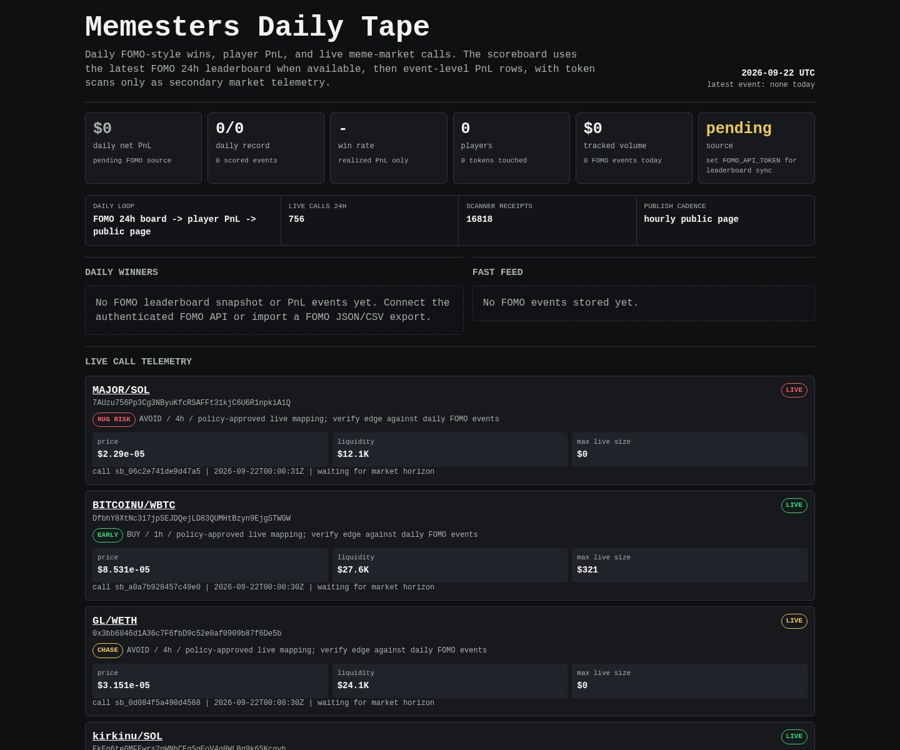
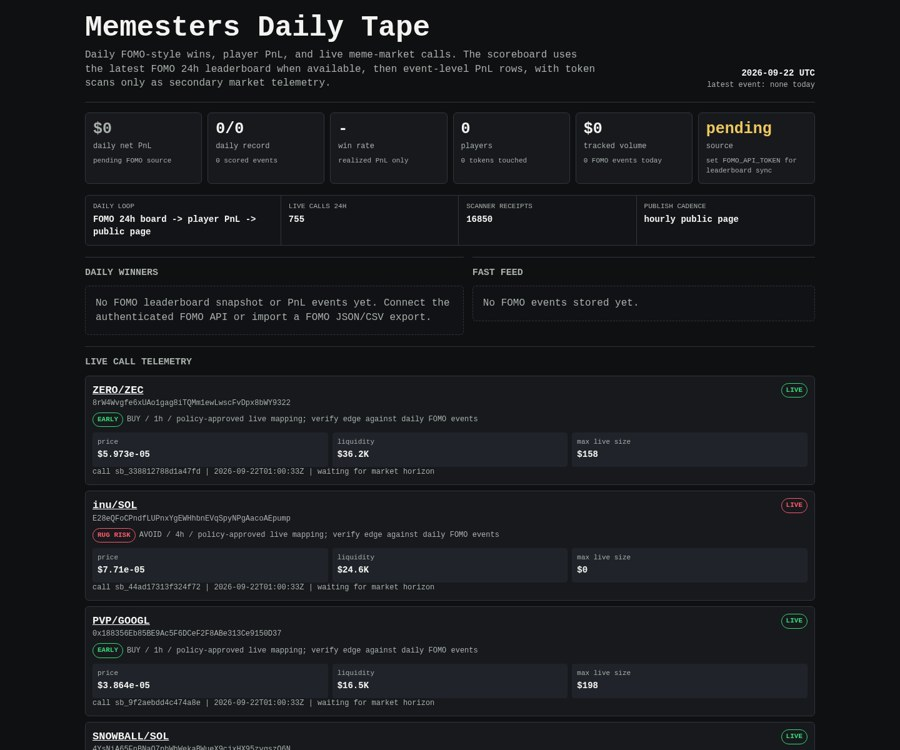
Update Memesters scoreboard

diff --git a/memesters/index.html b/memesters/index.html
@@ -149,8 +149,8 @@
 
     <div class="rail" aria-label="live operating loop">
       <div><span>daily loop</span><b>FOMO 24h board -> player PnL -> public page</b></div>
-      <div><span>live calls 24h</span><b>756</b></div>
-      <div><span>scanner receipts</span><b>16818</b></div>
+      <div><span>live calls 24h</span><b>755</b></div>
+      <div><span>scanner receipts</span><b>16850</b></div>
       <div><span>publish cadence</span><b>hourly public page</b></div>
     </div>
 
@@ -171,8 +171,29 @@
     <article class="receipt">
       <div class="receipt-head">
         <div>
-          <div class="pair"><a href="https://dexscreener.com/solana/f3rkwvg6z48r1ipev7usegv8fopyryuevs7vgghbj8wd">MAJOR/SOL</a></div>
-          <div class="addr">7AUzu756Pp3Cg3NByuKfcRSAFFt31kjC6U6R1npkiA1Q</div>
+          <div class="pair"><a href="https://dexscreener.com/solana/5uozo8lvjrvzu2jsu9kugmqyernyjc59syspqsujcxun">ZERO/ZEC</a></div>
+          <div class="addr">8rW4Wvgfe6xUAo1gag8iTQMm1ewLwscFvDpx8bWY9322</div>
+          <div class="addr policy-line">
+            <span class="badge early">EARLY</span>
+            <span>BUY / 1h / policy-approved live mapping; verify edge against daily FOMO events</span>
+          </div>
+        </div>
+        <span class="badge early">LIVE</span>
+      </div>
+      <div class="receipt-grid">
+        <div class="kv"><span>price</span><b>$5.973e-05</b></div>
+        <div class="kv"><span>liquidity</span><b>$36.2K</b></div>
+        <div class="kv"><span>max live size</span><b>$158</b></div>
+      </div>
+      <div class="outcomes">call sb_338812788d1a47fd | 2026-09-22T01:00:33Z | waiting for market horizon</div>
+    </article>
+    
+
+    <article class="receipt">
+      <div class="receipt-head">
+        <div>
+          <div class="pair"><a href="https://dexscreener.com/solana/fvc7eaasg9a5byz2y3nuemmjvfq2brwxopjjoca1g593">inu/SOL</a></div>
+          <div class="addr">E28eQFoCPndfLUPnxYgEWHhbnEVqSpyNPgAacoAEpump</div>
           <div class="addr policy-line">
             <span class="badge rug-risk">RUG RISK</span>
             <span>AVOID / 4h / policy-approved live mapping; verify edge against daily FOMO events</span>
@@ -181,19 +202,19 @@
         <span class="badge rug-risk">LIVE</span>
       </div>
       <div class="receipt-grid">
-        <div class="kv"><span>price</span><b>$2.29e-05</b></div>
-        <div class="kv"><span>liquidity</span><b>$12.1K</b></div>
+        <div class="kv"><span>price</span><b>$7.71e-05</b></div>
+        <div class="kv"><span>liquidity</span><b>$24.6K</b></div>
         <div class="kv"><span>max live size</span><b>$0</b></div>
       </div>
-      <div class="outcomes">call sb_06c2e741de9d47a5 | 2026-09-22T00:00:31Z | waiting for market horizon</div>
+      <div class="outcomes">call sb_44ad17313f324f72 | 2026-09-22T01:00:33Z | waiting for market horizon</div>
     </article>
     
 
     <article class="receipt">
       <div class="receipt-head">
         <div>
-          <div class="pair"><a href="https://dexscreener.com/solana/5dzxjzmtsrvmpzbebjyer2qjth2ttrcit7o55m5uuzci">BITCOINU/WBTC</a></div>
-          <div class="addr">DfbhY8XtNc317jpSEJDQejLD83QUMHtBzyn9EjgSTWGW</div>
+          <div class="pair"><a href="https://dexscreener.com/robinhood/0x244cea49b53e832db5d82272e75a30b3c515039f51cb97f759b240d9cae3d772">PVP/GOOGL</a></div>
+          <div class="addr">0x188356Eb85BE9Ac5F6DCeF2F8ABe313Ce9150D37</div>
           <div class="addr policy-line">
             <span class="badge early">EARLY</span>
             <span>BUY / 1h / policy-approved live mapping; verify edge against daily FOMO events</span>
@@ -202,19 +223,124 @@
         <span class="badge early">LIVE</span>
       </div>
       <div class="receipt-grid">
-        <div class="kv"><span>price</span><b>$8.531e-05</b></div>
-        <div class="kv"><span>liquidity</span><b>$27.6K</b></div>
-        <div class="kv"><span>max live size</span><b>$321</b></div>
+        <div class="kv"><span>price</span><b>$3.864e-05</b></div>
+        <div class="kv"><span>liquidity</span><b>$16.5K</b></div>
+        <div class="kv"><span>max live size</span><b>$198</b></div>
       </div>
-      <div class="outcomes">call sb_a0a7b928457c49e0 | 2026-09-22T00:00:30Z | waiting for market horizon</div>
+      <div class="outcomes">call sb_9f2aebdd4c474a8e | 2026-09-22T01:00:33Z | waiting for market horizon</div>
     </article>
     
 
     <article class="receipt">
       <div class="receipt-head">
         <div>
-          <div class="pair"><a href="https://dexscreener.com/robinhood/0x90f0f0b5444a96a7a49cf087ed9a09e08519d23d657af26a7787c8a744e5b3cb">GL/WETH</a></div>
-          <div class="addr">0x3bb6046d1A36c7F6fbD9c52e0af0909b87f6De5b</div>
+          <div class="pair"><a href="https://dexscreener.com/solana/5veqjswnfjvcg1hvlkzkthwmoptej1ydbpjzternperj">SNOWBALL/SOL</a></div>
+          <div class="addr">4YsNiA65FnBNaQ7pbWhWekaBWueX9cjxHX95zygszQ6N</div>
+          <div class="addr policy-line">
+            <span class="badge early">EARLY</span>
+            <span>BUY / 1h / policy-approved live mapping; verify edge against daily FOMO events</span>
+          </div>
+        </div>
+        <span class="badge early">LIVE</span>
+      </div>
+      <div class="receipt-grid">
+        <div class="kv"><span>price</span><b>$5.876e-05</b></div>
+        <div class="kv"><span>liquidity</span><b>$22.6K</b></div>
+        <div class="kv"><span>max live size</span><b>$160</b></div>
+      </div>
+      <div class="outcomes">call sb_54f8637e270a44bd | 2026-09-22T01:00:32Z | waiting for market horizon</div>
+    </article>
+    
+
+    <article class="receipt">
+      <div class="receipt-head">
+        <div>
+          <div class="pair"><a href="https://dexscreener.com/solana/ehtaaw2yccpm189xgqztgtu8d8l49ye3yxks6nqfml93">Bully/SOL</a></div>
+          <div class="addr">A6tt6RZHUgk2CVwwFn5rwmvrrdf5Mafqb54tD532X2Vf</div>
+          <div class="addr policy-line">
+            <span class="badge rug-risk">RUG RISK</span>
+            <span>AVOID / 4h / policy-approved live mapping; verify edge against daily FOMO events</span>
+          </div>
+        </div>
+        <span class="badge rug-risk">LIVE</span>
+      </div>
+      <div class="receipt-grid">
+        <div class="kv"><span>price</span><b>$1.418e-05</b></div>
+        <div class="kv"><span>liquidity</span><b>$8.8K</b></div>
+        <div class="kv"><span>max live size</span><b>$0</b></div>
+      </div>
+      <div class="outcomes">call sb_4cd9746e7e9148b6 | 2026-09-22T01:00:32Z | waiting for market horizon</div>
+    </article>
+    
+
+    <article class="receipt">
+      <div class="receipt-head">
+        <div>
+          <div class="pair"><a href="https://dexscreener.com/solana/5ina9bocjvpxxlzhfetdabdp6kjw4lx3pfampazdzlwq">PROXY/SOL</a></div>
+          <div class="addr">HhrSaoqysQBo8AdhxuA2hG8AWJb5hZieCi4AHgo1pump</div>
+          <div class="addr policy-line">
+            <span class="badge early">EARLY</span>
+            <span>BUY / 1h / policy-approved live mapping; verify edge against daily FOMO events</span>
+          </div>
+        </div>
+        <span class="badge early">LIVE</span>
+      </div>
+      <div class="receipt-grid">
+        <div class="kv"><span>price</span><b>$6.089e-05</b></div>
+        <div class="kv"><span>liquidity</span><b>$20.5K</b></div>
+        <div class="kv"><span>max live size</span><b>$25</b></div>
+      </div>
+      <div class="outcomes">call sb_3df1a416b3ac4498 | 2026-09-22T01:00:32Z | waiting for market horizon</div>
+    </article>
+    
+
+    <article class="receipt">
+      <div class="receipt-head">
+        <div>
+          <div class="pair"><a href="https://dexscreener.com/solana/dy21gkppugdjnr5bxrj7qskr7h1csa2f8nb4bqnnwu39">◎/xSOL</a></div>
+          <div class="addr">8KUkZrqJLsyqrPaiA72QTFe6diZPd4R4eCgP6WLaCYs4</div>
+          <div class="addr policy-line">
+            <span class="badge rug-risk">RUG RISK</span>
+            <span>AVOID / 4h / policy-approved live mapping; verify edge against daily FOMO events</span>
+          </div>
+        </div>
+        <span class="badge rug-risk">LIVE</span>
+      </div>
+      <div class="receipt-grid">
+        <div class="kv"><span>price</span><b>$1.74e-05</b></div>
+        <div class="kv"><span>liquidity</span><b>$12.5K</b></div>
+        <div class="kv"><span>max live size</span><b>$0</b></div>
+      </div>
+      <div class="outcomes">call sb_645f5a084d584526 | 2026-09-22T01:00:32Z | waiting for market horizon</div>
+    </article>
+    
+
+    <article class="receipt">
+      <div class="receipt-head">
+        <div>
+          <div class="pair"><a href="https://dexscreener.com/solana/gdhbatsqmm5ua9zx3fakz3chvtvwmedisxrwacuv46qv">OWED/SOL</a></div>
+          <div class="addr">DgACXKn6kSopTrFAyAwvGaeTKicrqWzLvXRYuvKGpump</div>
+          <div class="addr policy-line">
+            <span class="badge early">EARLY</span>
+            <span>BUY / 1h / policy-approved live mapping; verify edge against daily FOMO events</span>
+          </div>
+        </div>
+        <span class="badge early">LIVE</span>
+      </div>
+      <div class="receipt-grid">
+        <div class="kv"><span>price</span><b>$7.923e-05</b></div>
+        <div class="kv"><span>liquidity</span><b>$23.9K</b></div>
+        <div class="kv"><span>max live size</span><b>$286</b></div>
+      </div>
+      <div class="outcomes">call sb_7b959c19115a4496 | 2026-09-22T01:00:32Z | waiting for market horizon</div>
+    </article>
+    
+
+    <article class="receipt">
+      <div class="receipt-head">
+        <div>
+          <div class="pair"><a href="https://dexscreener.com/hyperevm/0xfd8ccdeec2d8dbc003d1c7a213d826bd1386f4d5">PUMPY/UPUMP</a></div>
+          <div class="addr">0xCC661E90E93A81ccfbdac6B8832D191c42345819</div>
           <div class="addr policy-line">
             <span class="badge chase">CHASE</span>
             <span>AVOID / 4h / policy-approved live mapping; verify edge against daily FOMO events</span>
@@ -223,61 +349,19 @@
         <span class="badge chase">LIVE</span>
       </div>
       <div class="receipt-grid">
-        <div class="kv"><span>price</span><b>$3.151e-05</b></div>
-        <div class="kv"><span>liquidity</span><b>$24.1K</b></div>
+        <div class="kv"><span>price</span><b>$1.252e-05</b></div>
+        <div class="kv"><span>liquidity</span><b>$10.9K</b></div>
         <div class="kv"><span>max live size</span><b>$0</b></div>
       </div>
-      <div class="outcomes">call sb_0d084f5a490d4568 | 2026-09-22T00:00:30Z | waiting for market horizon</div>
+      <div class="outcomes">call sb_7cb36fbd1fa14f28 | 2026-09-22T00:45:29Z | waiting for market horizon</div>
     </article>
     
 
     <article class="receipt">
       <div class="receipt-head">
         <div>
-          <div class="pair"><a href="https://dexscreener.com/solana/7r69uthqa8nzdizmhcksbfm6d9hlgmadlhmkk8zwqx5a">kirkinu/SOL</a></div>
-          <div class="addr">EkEq6teGMFEwrs2pWNbCEgSqEoV4q8WLBg9k6SKcgvh</div>
-          <div class="addr policy-line">
-            <span class="badge early">EARLY</span>
-            <span>BUY / 1h / policy-approved live mapping; verify edge against daily FOMO events</span>
-          </div>
-        </div>
-        <span class="badge early">LIVE</span>
-      </div>
-      <div class="receipt-grid">
-        <div class="kv"><span>price</span><b>$6.316e-05</b></div>
-        <div class="kv"><span>liquidity</span><b>$21.7K</b></div>
-        <div class="kv"><span>max live size</span><b>$260</b></div>
-      </div>
-      <div class="outcomes">call sb_29a42434f1d44bca | 2026-09-22T00:00:30Z | waiting for market horizon</div>
-    </article>
-    
-
-    <article class="receipt">
-      <div class="receipt-head">
-        <div>
-          <div class="pair"><a href="https://dexscreener.com/solana/8esdhozhtqjv8gvw6wgl5difqrpczm14uhtsahvqenfc">WASH/KALSHI</a></div>
-          <div class="addr">63qoV3oPkxZ7TBvNnAe8L1gAgsLR3quNViRQuMzKYBqK</div>
-          <div class="addr policy-line">
-            <span class="badge early">EARLY</span>
-            <span>BUY / 1h / policy-approved live mapping; verify edge against daily FOMO events</span>
-          </div>
-        </div>
-        <span class="badge early">LIVE</span>
-      </div>
-      <div class="receipt-grid">
-        <div class="kv"><span>price</span><b>$4.06e-05</b></div>
-        <div class="kv"><span>liquidity</span><b>$18.4K</b></div>
-        <div class="kv"><span>max live size</span><b>$221</b></div>
-      </div>
-      <div class="outcomes">call sb_a590fc3a912145bd | 2026-09-22T00:00:30Z | waiting for market horizon</div>
-    </article>
-    
-
-    <article class="receipt">
-      <div class="receipt-head">
-        <div>
-          <div class="pair"><a href="https://dexscreener.com/robinhood/0xbcddbc16d68084d79ab98493243d9657b1eafba5d4fba07225be8f9d88b6c5b3">METAMUSE/musebook</a></div>
-          <div class="addr">0x0E1eD29a6Db079b3860F2A7401C6bD7273C4CbA3</div>
+          <div class="pair"><a href="https://dexscreener.com/solana/41hthpraa3zrykukdlbhfxh8pxgtupzneuhgok1ng7mb">NALA/SOL</a></div>
+          <div class="addr">HXuQTQTAG39oVkNpdhHqJY3KX45nVKcoPJmAmBcTpump</div>
           <div class="addr policy-line">
             <span class="badge chase">CHASE</span>
             <span>AVOID / 4h / policy-approved live mapping; verify edge against daily FOMO events</span>
@@ -286,95 +370,11 @@
         <span class="badge chase">LIVE</span>
       </div>
       <div class="receipt-grid">
-        <div class="kv"><span>price</span><b>$6.903e-07</b></div>
-        <div class="kv"><span>liquidity</span><b>$45.5K</b></div>
+        <div class="kv"><span>price</span><b>$0.0002188</b></div>
+        <div class="kv"><span>liquidity</span><b>$42.4K</b></div>
         <div class="kv"><span>max live size</span><b>$0</b></div>
       </div>
-      <div class="outcomes">call sb_5030cb6396ec46f4 | 2026-09-22T00:00:30Z | waiting for market horizon</div>
-    </article>
-    
-
-    <article class="receipt">
-      <div class="receipt-head">
-        <div>
-          <div class="pair"><a href="https://dexscreener.com/robinhood/0xe7aa2f02e0b48beed75d4f4495b8439f4fb0bcf45d8b2f28f2a36fa1fe14185b">RELIX/ETH</a></div>
-          <div class="addr">0x3CFc6851325eb7feb41258ca0584BdDe58Cd564A</div>
-          <div class="addr policy-line">
-            <span class="badge early">EARLY</span>
-            <span>BUY / 1h / policy-approved live mapping; verify edge against daily FOMO events</span>
-          </div>
-        </div>
-        <span class="badge early">LIVE</span>
-      </div>
-      <div class="receipt-grid">
-        <div class="kv"><span>price</span><b>$4.441e-05</b></div>
-        <div class="kv"><span>liquidity</span><b>$20.6K</b></div>
-        <div class="kv"><span>max live size</span><b>$27</b></div>
-      </div>
-      <div class="outcomes">call sb_78c412c18cc44c24 | 2026-09-22T00:00:30Z | waiting for market horizon</div>
-    </article>
-    
-
-    <article class="receipt">
-      <div class="receipt-head">
-        <div>
-          <div class="pair"><a href="https://dexscreener.com/robinhood/0x606a962c65020f9e09622bc3fda2720be64e5602c6eeb34e5d202588391de387">DEED/ETH</a></div>
-          <div class="addr">0x5E55f18453545d0D4314C5106a2D8Db934298E95</div>
-          <div class="addr policy-line">
-            <span class="badge chase">CHASE</span>
-            <span>AVOID / 4h / policy-approved live mapping; verify edge against daily FOMO events</span>
-          </div>
-        </div>
-        <span class="badge chase">LIVE</span>
-      </div>
-      <div class="receipt-grid">
-        <div class="kv"><span>price</span><b>$0.001965</b></div>
-        <div class="kv"><span>liquidity</span><b>$136.6K</b></div>
-        <div class="kv"><span>max live size</span><b>$0</b></div>
-      </div>
-      <div class="outcomes">call sb_aabf66b74ded4e87 | 2026-09-22T00:00:30Z | waiting for market horizon</div>
-    </article>
-    
-
-    <article class="receipt">
-      <div class="receipt-head">
-        <div>
-          <div class="pair"><a href="https://dexscreener.com/solana/3sakhjvvffmwfnhhlhgzztk6romyr4exmrmapyulepkj">HUSKY/SOL</a></div>
-          <div class="addr">8TSUhXRhpEFtUVfDFAQdYCwgp2mEbs2jQk7tAYc1pump</div>
-          <div class="addr policy-line">
-            <span class="badge chase">CHASE</span>
-            <span>AVOID / 4h / policy-approved live mapping; verify edge against daily FOMO events</span>
-          </div>
-        </div>
-        <span class="badge chase">LIVE</span>
-      </div>
-      <div class="receipt-grid">
-        <div class="kv"><span>price</span><b>$0.0001581</b></div>
-        <div class="kv"><span>liquidity</span><b>$36.4K</b></div>
-        <div class="kv"><span>max live size</span><b>$0</b></div>
-      </div>
-      <div class="outcomes">call sb_c1a7b471b7af4581 | 2026-09-21T23:45:30Z | waiting for market horizon</div>
-    </article>
-    
-
-    <article class="receipt">
-      <div class="receipt-head">
-        <div>
-          <div class="pair"><a href="https://dexscreener.com/arc/0x2562c87d43dc09901704bd0e190a9001762834668fb14456a2fa3e7e52afd6bf">FOCI/USDC</a></div>
-          <div class="addr">0x7c7489163b1060333E71229Bb7a9F8cB7094A7a9</div>
-          <div class="addr policy-line">
-            <span class="badge early">EARLY</span>
-            <span>BUY / 1h / policy-approved live mapping; verify edge against daily FOMO events</span>
-          </div>
-        </div>
-        <span class="badge early">LIVE</span>
-      </div>
-      <div class="receipt-grid">
-        <div class="kv"><span>price</span><b>$0.000183</b></div>
-        <div class="kv"><span>liquidity</span><b>$40.8K</b></div>
-        <div class="kv"><span>max live size</span><b>$489</b></div>
-      </div>
-      <div class="outcomes">call sb_e030504e220a4e83 | 2026-09-21T23:45:30Z | waiting for market horizon</div>
+      <div class="outcomes">call sb_f8592f3cec294eb2 | 2026-09-22T00:45:29Z | waiting for market horizon</div>
     </article>
     
     </section>
